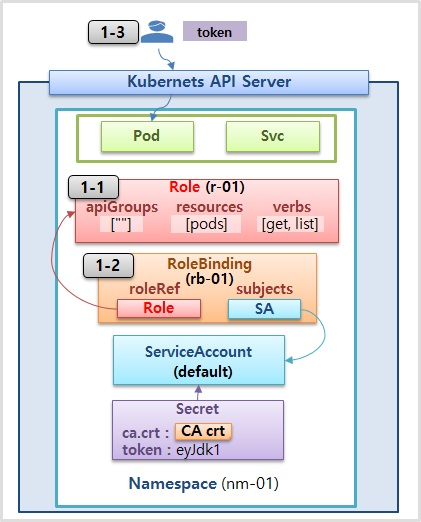
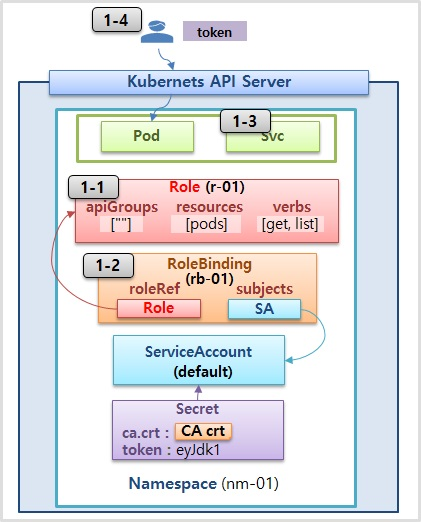
1

Changed region(s): [[0.1853, 0.0, 0.3397, 0.092], [0.4941, 0.1839, 0.6485, 0.2759]]

diff --git a/practice/intermediate/object-authentication/index.html b/practice/intermediate/object-authentication/index.html
@@ -33,7 +33,7 @@
 
 <meta itemprop="datePublished" content="2020-04-24T00:00:00&#43;00:00" />
 <meta itemprop="dateModified" content="2020-04-24T00:00:00&#43;00:00" />
-<meta itemprop="wordCount" content="259">
+<meta itemprop="wordCount" content="294">
 
 
 
@@ -299,20 +299,31 @@ user.client-certificate-data: Client.crt (Base64)
 user.client-key-data: Client.key (Base64)
 </code></pre>
 
+<pre><code class="language-sh">grep 'client-certificate-data' /etc/kubernetes/admin.conf | head -n 1 | awk '{print $2}' | base64 -d
+grep 'client-key-data' /etc/kubernetes/admin.conf | head -n 1 | awk '{print $2}' | base64 -d
+</code></pre>
+
 <p><br/></p>
 
 <h3 id="1-2-https-api-client-crt-client-key">1-2) Https API (Client.crt, Client.key)</h3>
 
-<pre><code class="language-sh">https://192.168.0.30:6443/api/v1/namespaces
-</code></pre>
-
 <p>postman</p>
+
+<pre><code class="language-sh">https://192.168.0.30:6443/api/v1/nodes
+</code></pre>
 
 <pre><code class="language-sh">Settings &gt; General &gt; SSL certificate verification &gt; OFF
 Settings &gt; Certificates &gt; Client Certificates &gt; Host, CRT file, KEY file
 </code></pre>
 
 <h3 id="1-3-kubectl-config-세팅">1-3) kubectl config 세팅</h3>
+
+<p>kubeadm / kubectl / kubelet 설치</p>
+
+<pre><code class="language-sh">yum install -y --disableexcludes=kubernetes kubeadm-1.15.5-0.x86_64 kubectl-1.15.5-0.x86_64 kubelet-1.15.5-0.x86_64
+</code></pre>
+
+<p>admin.conf 인증서 복사</p>
 
 <pre><code class="language-sh">mkdir -p $HOME/.kube
 sudo cp -i /etc/kubernetes/admin.conf $HOME/.kube/config
@@ -326,7 +337,7 @@ sudo chown $(id -u):$(id -g) $HOME/.kube/config
 
 <h3 id="1-4-http-api-호출-proxy">1-4) HTTP API 호출 (Proxy)</h3>
 
-<pre><code class="language-sh">http://192.168.0.30:8001/api/v1/namespaces
+<pre><code class="language-sh">http://192.168.0.30:8001/api/v1/nodes
 </code></pre>
 
 <p><br/>
@@ -415,7 +426,10 @@ users:
 
 <h3 id="2-4-kubectl-cli">2-4) kubectl CLI</h3>
 
-<p>windows kubectl download</p>
+<p>kubectl download :
+<a href="https://kubernetes.io/docs/tasks/tools/install-kubectl/">https://kubernetes.io/docs/tasks/tools/install-kubectl/</a></p>
+
+<p>windows</p>
 
 <pre><code class="language-sh">curl -LO https://storage.googleapis.com/kubernetes-release/release/v1.18.0/bin/windows/amd64/kubectl.exe
 </code></pre>
@@ -479,9 +493,10 @@ kubectl config use-context context-a
 kubectl describe -n nm-01 secrets
 </code></pre>
 
-<h3 id="3-3-pod-service">3-3) Pod, Service</h3>
+<h3 id="3-3-pod">3-3) Pod</h3>
 
-<pre><code class="language-yaml">apiVersion: v1
+<pre><code class="language-sh">cat &lt;&lt;EOF | kubectl create -f -
+apiVersion: v1
 kind: Pod
 metadata:
   name: pod-1
@@ -491,17 +506,7 @@ spec:
   containers:
   - name: container
     image: kubetm/app
----
-apiVersion: v1
-kind: Service
-metadata:
-  name: svc-1
-spec:
-  selector:
-    app: pod
-  ports:
-  - port: 8080
-    targetPort: 8080
+EOF
 </code></pre>
 
 <h3 id="3-4-https-api-호출-token">3-4) Https API 호출 (Token)</h3>
@@ -509,7 +514,7 @@ spec:
 <p><code>header</code> Authorization : Bearer TOKEN</p>
 
 <pre><code class="language-sh">https://192.168.0.30:6443/api/v1
-https://192.168.0.30:6443/api/v1/namespaces/nm-01
+https://192.168.0.30:6443/api/v1/namespaces/nm-01/pods/
 </code></pre>
 
 <p><br/>

diff --git a/practice/intermediate/object-authorization/index.html b/practice/intermediate/object-authorization/index.html
@@ -33,7 +33,7 @@
 
 <meta itemprop="datePublished" content="2020-04-24T00:00:00&#43;00:00" />
 <meta itemprop="dateModified" content="2020-04-24T00:00:00&#43;00:00" />
-<meta itemprop="wordCount" content="155">
+<meta itemprop="wordCount" content="180">
 
 
 
@@ -335,8 +335,6 @@ rules:
   resources: [&quot;pods&quot;]
 </code></pre>
 
-<p><br/></p>
-
 <h3 id="1-2-rolebinding">1-2) RoleBinding</h3>
 
 <pre><code class="language-yaml">apiVersion: rbac.authorization.k8s.io/v1
@@ -354,11 +352,25 @@ subjects:
   namespace: nm-01
 </code></pre>
 
-<h3 id="1-3-https-api-호출-token">1-3) Https API 호출 (Token)</h3>
+<h3 id="1-3-service">1-3) Service</h3>
+
+<pre><code class="language-yaml">apiVersion: v1
+kind: Service
+metadata:
+  name: svc-1
+spec:
+  selector:
+    app: pod
+  ports:
+  - port: 8080
+    targetPort: 8080
+</code></pre>
+
+<h3 id="1-4-https-api-호출-token">1-4) Https API 호출 (Token)</h3>
 
 <p><code>header</code> Authorization : Bearer TOKEN</p>
 
-<pre><code class="language-sh">https://192.168.0.30:6443/api/v1/namespaces/nm-01
+<pre><code class="language-sh">https://192.168.0.30:6443/api/v1/namespaces/nm-01/pods/
 </code></pre>
 
 <p><br/>
@@ -431,7 +443,7 @@ rules:
   resources: [&quot;*&quot;]
 </code></pre>
 
-<h3 id="2-4-rolebinding">2-4) RoleBinding</h3>
+<h3 id="2-4-clusterrolebinding">2-4) ClusterRoleBinding</h3>
 
 <pre><code class="language-yaml">apiVersion: rbac.authorization.k8s.io/v1
 kind: ClusterRoleBinding
@@ -443,7 +455,7 @@ roleRef:
   name: cr-02
 subjects:
 - kind: ServiceAccount
-  name: default
+  name: sa-02
   namespace: nm-02
 </code></pre>
 
@@ -465,6 +477,8 @@ subjects:
 
 <ul>
 <li><strong>Using RBAC Authorization</strong> : <a href="https://kubernetes.io/docs/reference/access-authn-authz/rbac/">https://kubernetes.io/docs/reference/access-authn-authz/rbac/</a></li>
+<li><strong>Review Your Request Attributes</strong> : <a href="https://kubernetes.io/docs/reference/access-authn-authz/authorization/#review-your-request-attributes">https://kubernetes.io/docs/reference/access-authn-authz/authorization/#review-your-request-attributes</a>
+<br /></li>
 </ul>
 
   </div>
